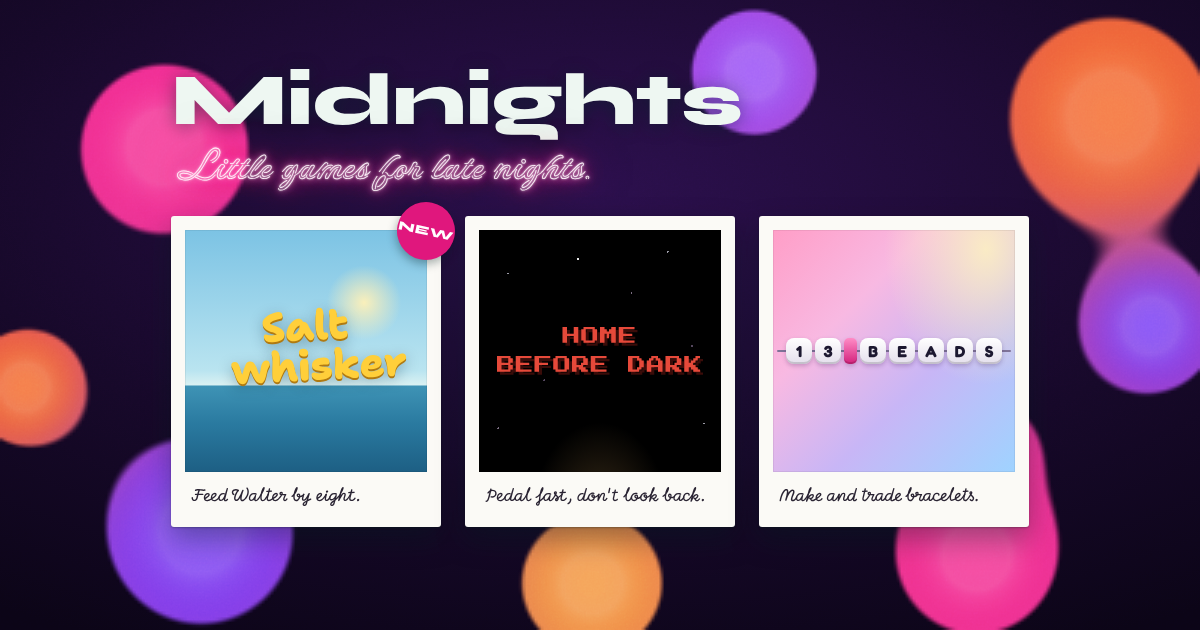
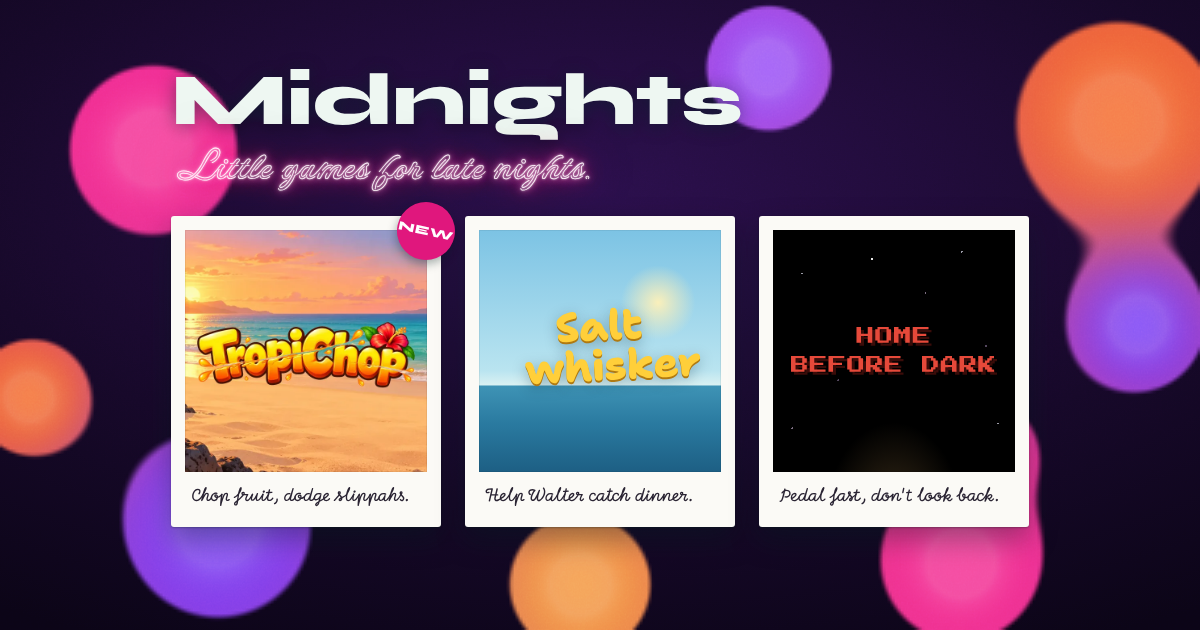
Add TropiChop at /tropichop with the New sticker

diff --git a/index.html b/index.html
@@ -12,7 +12,7 @@
   <meta property="og:image" content="https://games.shauna.digital/og.png">
   <meta property="og:image:width" content="1200">
   <meta property="og:image:height" content="630">
-  <meta property="og:image:alt" content="Midnights: three little games shown as polaroids over glowing pink, orange and violet blobs.">
+  <meta property="og:image:alt" content="Midnights: little games shown as polaroids over glowing pink, orange and violet blobs.">
   <meta name="twitter:card" content="summary_large_image">
   <meta name="twitter:title" content="Midnights: little games for late nights">
   <meta name="twitter:description" content="Little games for late nights. Made by Shauna.">
@@ -99,6 +99,8 @@
     .sticker { position: absolute; top: -14px; right: -14px; z-index: 1; width: 58px; height: 58px; border-radius: 50%; display: grid; place-items: center;
       background: #e0177d; color: #ffffff; font: 800 .78rem/1 var(--title); letter-spacing: .06em; text-transform: uppercase;
       transform: rotate(12deg); box-shadow: 0 4px 10px rgba(2, 30, 28, .35); }
+    /* TropiChop: the game's own logo over its beach sunset background. */
+    .art-tropi { background: #f2a36b url(img/tropichop-card.webp) center / cover no-repeat; }
     /* Saltwhisker: soft painted sea and sky, the title in the game's own font and the cat's sou'wester yellow. */
     .art-salt { overflow: hidden; background:
         radial-gradient(22% 22% at 74% 30%, rgba(255, 241, 184, .95), rgba(255, 241, 184, 0) 70%),
@@ -145,8 +147,16 @@
     </header>
     <ul class="games">
       <li>
-        <a class="card" href="/saltwhisker/" aria-label="Saltwhisker, new. Help Walter catch dinner.">
+        <a class="card" href="/tropichop/" aria-label="TropiChop, new. Chop fruit, dodge slippahs.">
           <span class="sticker" aria-hidden="true">New</span>
+          <div class="art art-tropi" aria-hidden="true"></div>
+          <div class="caption" aria-hidden="true">
+            <p>Chop fruit, dodge slippahs.</p>
+          </div>
+        </a>
+      </li>
+      <li>
+        <a class="card" href="/saltwhisker/" aria-label="Saltwhisker. Help Walter catch dinner.">
           <div class="art art-salt" aria-hidden="true">
             <p class="salt-title"><span>Salt</span><span>whisker</span></p>
           </div>
@@ -196,7 +206,7 @@
     const hex = (h) => [parseInt(h.slice(1, 3), 16), parseInt(h.slice(3, 5), 16), parseInt(h.slice(5, 7), 16)];
     const PAL = ['#ff2d95', '#ff6a2b', '#7b3dff', '#ff2d95', '#ff9a3d', '#9b4dff', '#ff6a2b', '#7b3dff'].map(hex);
     const CUR = hex('#ff2d95');
-    const TINT = { saltwhisker: hex('#ffcf3a'), homebeforedark: hex('#e6493a'), '13-beads': hex('#ff5fae') };
+    const TINT = { tropichop: hex('#ff9a1a'), saltwhisker: hex('#ffcf3a'), homebeforedark: hex('#e6493a'), '13-beads': hex('#ff5fae') };
     const mix = (a, b, t) => [a[0] + (b[0] - a[0]) * t, a[1] + (b[1] - a[1]) * t, a[2] + (b[2] - a[2]) * t];
     let W, H, S, w, h, img, k;
     const A = [[.12, .19, 110, .05, .045], [.88, .23, 130, .055, .055], [.21, .84, 120, .06, .045], [.84, .84, 100, .05, .065], [.44, .96, 90, .07, .035], [.6, .1, 80, .06, .035], [.05, .58, 70, .03, .08], [.96, .58, 80, .03, .065]];

diff --git a/tools/subset-fonts.py b/tools/subset-fonts.py
@@ -21,7 +21,7 @@ FAMILIES = [
     ('Press Start 2P', 'Press+Start+2P', 400, 'press-start-2p-400', 'HOME BEFORE DARK'),
     ('Shantell Sans', 'Shantell+Sans:wght@800', 800, 'shantell-sans-800', 'Saltwhisker'),
     ('Momo Signature', 'Momo+Signature', 400, 'momo-signature-400',
-     "Help Walter catch dinner. Pedal fast, don't look back. Make and trade bracelets. Still developing."),
+     "Chop fruit, dodge slippahs. Help Walter catch dinner. Pedal fast, don't look back. Make and trade bracelets. Still developing."),
     # Body font: footer text plus basic Latin so small copy edits never fall back.
     ('Figtree', 'Figtree:wght@400', 400, 'figtree-400', BASIC),
 ]

diff --git a/CLAUDE.md b/CLAUDE.md
@@ -5,11 +5,11 @@ The home page for https://games.shauna.digital. Read `README.md`: it explains th
 - Plain static site: `index.html`, `vercel.json`, `og.png` and `fonts/`. No build step.
 - Fonts are self-hosted subsets in `fonts/` (about 38 KB for all seven, down from about 219 KB from Google Fonts, 2026-10-11). Each file holds only the characters the page shows, so after changing ANY visible text (caption, tagline, card title, footer) add it to `tools/subset-fonts.py`, run `python3 tools/subset-fonts.py`, and paste the printed `@font-face` rules over the block at the top of the `<style>` in `index.html`. A missing character silently falls back to a system font.
 - Repository `shaunagits/games`, Vercel project `games`, team `shaunagits-projects`. Every push to `main` deploys to production.
-- Current design (updated 2026-10-11): title "Midnights" (Syne), neon tagline "Little games for late nights." that flickers, straight (untilted) polaroid game cards over an animated "gooey blobs" background, teal polaroid tab icon. Each card's photo is the game's own title treatment: 13 Beads is its full bead wordmark (1 3, pink bead, B E A D S on a string, copied from the game's header), Home Before Dark is Press Start 2P, Saltwhisker is Shantell Sans in sou'wester yellow over a soft sea.
+- Current design (updated 2026-10-11): title "Midnights" (Syne), neon tagline "Little games for late nights." that flickers, straight (untilted) polaroid game cards over an animated "gooey blobs" background, teal polaroid tab icon. Each card's photo is the game's own title treatment: TropiChop is its logo over its beach sunset (`img/tropichop-card.webp`), 13 Beads is its full bead wordmark (1 3, pink bead, B E A D S on a string, copied from the game's header), Home Before Dark is Press Start 2P, Saltwhisker is Shantell Sans in sou'wester yellow over a soft sea.
 - Background (Shauna, 2026-10-11, "keep it just the way it is for now"): pink, orange and violet blobs ("Sunset lava") on deep plum, drawn as metaballs on a low-resolution canvas (one canvas pixel per 3 screen pixels, 4 above 1600px wide) at about 30 frames a second, with an animated film grain on top. A smaller blob follows the cursor or finger, stretches as it moves and sheds droplets that rejoin it. Hovering a card (or, on touch screens, the card nearest the middle of the screen while scrolling) tints the blobs toward that game's color. Tapping empty space splits the nearest blob in two and the halves rejoin. Scrolling makes the blobs drift. With reduced motion it draws one still frame. All of it is the `.bg` styles and the script at the end of `index.html`.
-- Cards (2026-10-11): newest game first with a pink "New" sticker (move it when a new game lands). Under each photo is a one-line handwritten teaser in Momo Signature at .875rem (Shauna's pick, 2026-10-11) (no game name; the name is in the link's aria-label). It must fit on one line on the narrowest card (cards are at least 264px, leaving 224px of caption), so keep teasers to about 28 characters and measure any new one. No "Play" button: the whole card is the link (Shauna removed the Play pills, 2026-10-11). Teasers chosen by Shauna: Saltwhisker "Help Walter catch dinner." (Walter is the cat; was "Feed Walter by eight." until 2026-10-12), Home Before Dark "Pedal fast, don't look back.", 13 Beads "Make and trade bracelets." Keep new captions in that style. A "Still developing." polaroid (slow fog) for the next game exists but is hidden in an HTML comment (Shauna, 2026-10-11); restore it to tease a game.
+- Cards (2026-10-11): newest game first with a pink "New" sticker (move it when a new game lands). Under each photo is a one-line handwritten teaser in Momo Signature at .875rem (Shauna's pick, 2026-10-11) (no game name; the name is in the link's aria-label). It must fit on one line on the narrowest card (cards are at least 264px, leaving 224px of caption), so keep teasers to about 28 characters and measure any new one. No "Play" button: the whole card is the link (Shauna removed the Play pills, 2026-10-11). Teasers: TropiChop "Chop fruit, dodge slippahs." (added 2026-10-16, 219px), Saltwhisker "Help Walter catch dinner." (Walter is the cat; was "Feed Walter by eight." until 2026-10-12), Home Before Dark "Pedal fast, don't look back.", 13 Beads "Make and trade bracelets." Keep new captions in that style. A "Still developing." polaroid (slow fog) for the next game exists but is hidden in an HTML comment (Shauna, 2026-10-11); restore it to tease a game.
 - Footer, on a soft dark band so the light text passes contrast: "Made by Shauna." (links to https://shauna.dev) plus "By day I build software for growing businesses at shauna.digital" (links to https://shauna.digital).
-- The page description is "Little games for late nights. Made by Shauna." Link previews use og:title "Midnights: little games for late nights" and `og.png` (1200 by 630, the three cards over the blobs). Regenerate `og.png` when the cards change; the recipe is in `_docs/PROJECT_STATUS.md`.
+- The page description is "Little games for late nights. Made by Shauna." Link previews use og:title "Midnights: little games for late nights" and `og.png` (1200 by 630, the three newest cards over the blobs). Regenerate `og.png` when the cards change; the recipe is in `_docs/PROJECT_STATUS.md`.
 - Vercel builds one project at a time for this account; a stuck build on another project (for example faf-app) blocks deploys here. Check the queue before assuming a push failed.
 - No em dashes in any text. No AI or assistant credit in code, commits, or docs.
 - All artwork is original. No artist names, logos, album artwork, or lyrics.

diff --git a/_docs/PROJECT_STATUS.md b/_docs/PROJECT_STATUS.md
@@ -1,12 +1,12 @@
 # Project status
 
-Last updated 2026-10-11.
+Last updated 2026-10-16.
 
 ## Live now
 
 All of this is committed to `main` and deployed to https://games.shauna.digital.
 
-- Cards: Saltwhisker (with a "New" sticker), Home Before Dark, 13 Beads, in that order. Straight polaroids, one-line teasers in Momo Signature, no Play buttons (the whole card is the link). The "Still developing." card is hidden in an HTML comment.
+- Cards: TropiChop (with a "New" sticker), Saltwhisker, Home Before Dark, 13 Beads, in that order. Straight polaroids, one-line teasers in Momo Signature, no Play buttons (the whole card is the link). The "Still developing." card is hidden in an HTML comment.
 - Background: gooey blobs in the Sunset lava colors, with color pull, liquid stretch, tap to split, scroll drift and film grain. See `CLAUDE.md` for how it behaves.
 - Footer: "Made by Shauna." (shauna.dev) plus a line to shauna.digital, on a dark band.
 - Link previews: `og.png` plus Open Graph and Twitter card tags. Saltwhisker has its own preview image (`og.jpg` in its repo, a moonlit pier shot).
@@ -36,6 +36,8 @@ Append new rows. If a row stops being true, mark it superseded rather than delet
 | 2026-10-11 | Phone interactions: tap to split, scroll drift, color pull on scroll. | All work through touch and scroll, so there is no "allow motion" prompt and iPhone and Android behave the same. |
 | 2026-10-11 | Blobs are metaballs on a low-resolution canvas, not an SVG blur filter. | A full-screen SVG blur every frame is too heavy for phones. The canvas runs at about 30 frames a second. |
 | 2026-10-11 | Fonts self-hosted as per-font subsets of only the characters shown (`tools/subset-fonts.py`). | All page text is fixed, so this cut fonts from about 219 KB in 9 files from two Google servers to about 38 KB in 7 files from this site, with no extra connections before the title can draw. Figtree keeps basic Latin so footer edits do not break; Figtree 500 and 600 were dropped because nothing used them. |
+| 2026-10-16 | TropiChop added at `/tropichop`, first with the "New" sticker. Teaser "Chop fruit, dodge slippahs." (219px). Card photo is the game's logo over its beach sunset. Tint `#ff9a1a`. | New game. "Chop fruit, dodge the slippah." was 241px, too wide for the 224px caption. |
+| 2026-10-16 | `og.png` now shows the three newest cards, so 13 Beads drops out of the preview. | The recipe hides the 4th card to keep a single row of three. |
 
 ## Queue
 

diff --git a/README.md b/README.md
@@ -8,6 +8,7 @@ Little browser games for late nights. This repository is the home page that ties
 
 | Game | What it is |
 |---|---|
+| [TropiChop](https://games.shauna.digital/tropichop/) | Chop flying Hawaiian fruit and dodge Aunty's slippah and the wana. ([repo](https://github.com/shaunagits/tropichop)) |
 | [13 Beads](https://games.shauna.digital/13-beads/) | String a friendship bracelet in 3D, spell a phrase, and hang it on your wall. ([repo](https://github.com/shaunagits/13-beads)) |
 | [Home Before Dark](https://games.shauna.digital/homebeforedark/) | Pedal fast. Don't look back. |
 | [Saltwhisker](https://games.shauna.digital/saltwhisker/) | Walter, a tuxedo cat in a yellow sou'wester, fishes off a pier for his dinner. ([repo](https://github.com/shaunagits/saltwhisker)) |
@@ -23,6 +24,7 @@ Little browser games for late nights. This repository is the home page that ties
 
 | Path | Repository | Vercel project | Address it forwards to |
 |---|---|---|---|
+| `/tropichop` | `shaunagits/tropichop` | `tropichop` | `https://tropichop.vercel.app` |
 | `/13-beads` | `shaunagits/13-beads` | `13-beads` | `https://13-beads.vercel.app` |
 | `/homebeforedark` | `shaunagits/homebeforedark` | `homebeforedark` | `https://homebeforedark.vercel.app` |
 | `/saltwhisker` | `shaunagits/saltwhisker` | `saltwhisker` | `https://saltwhisker.vercel.app` |
